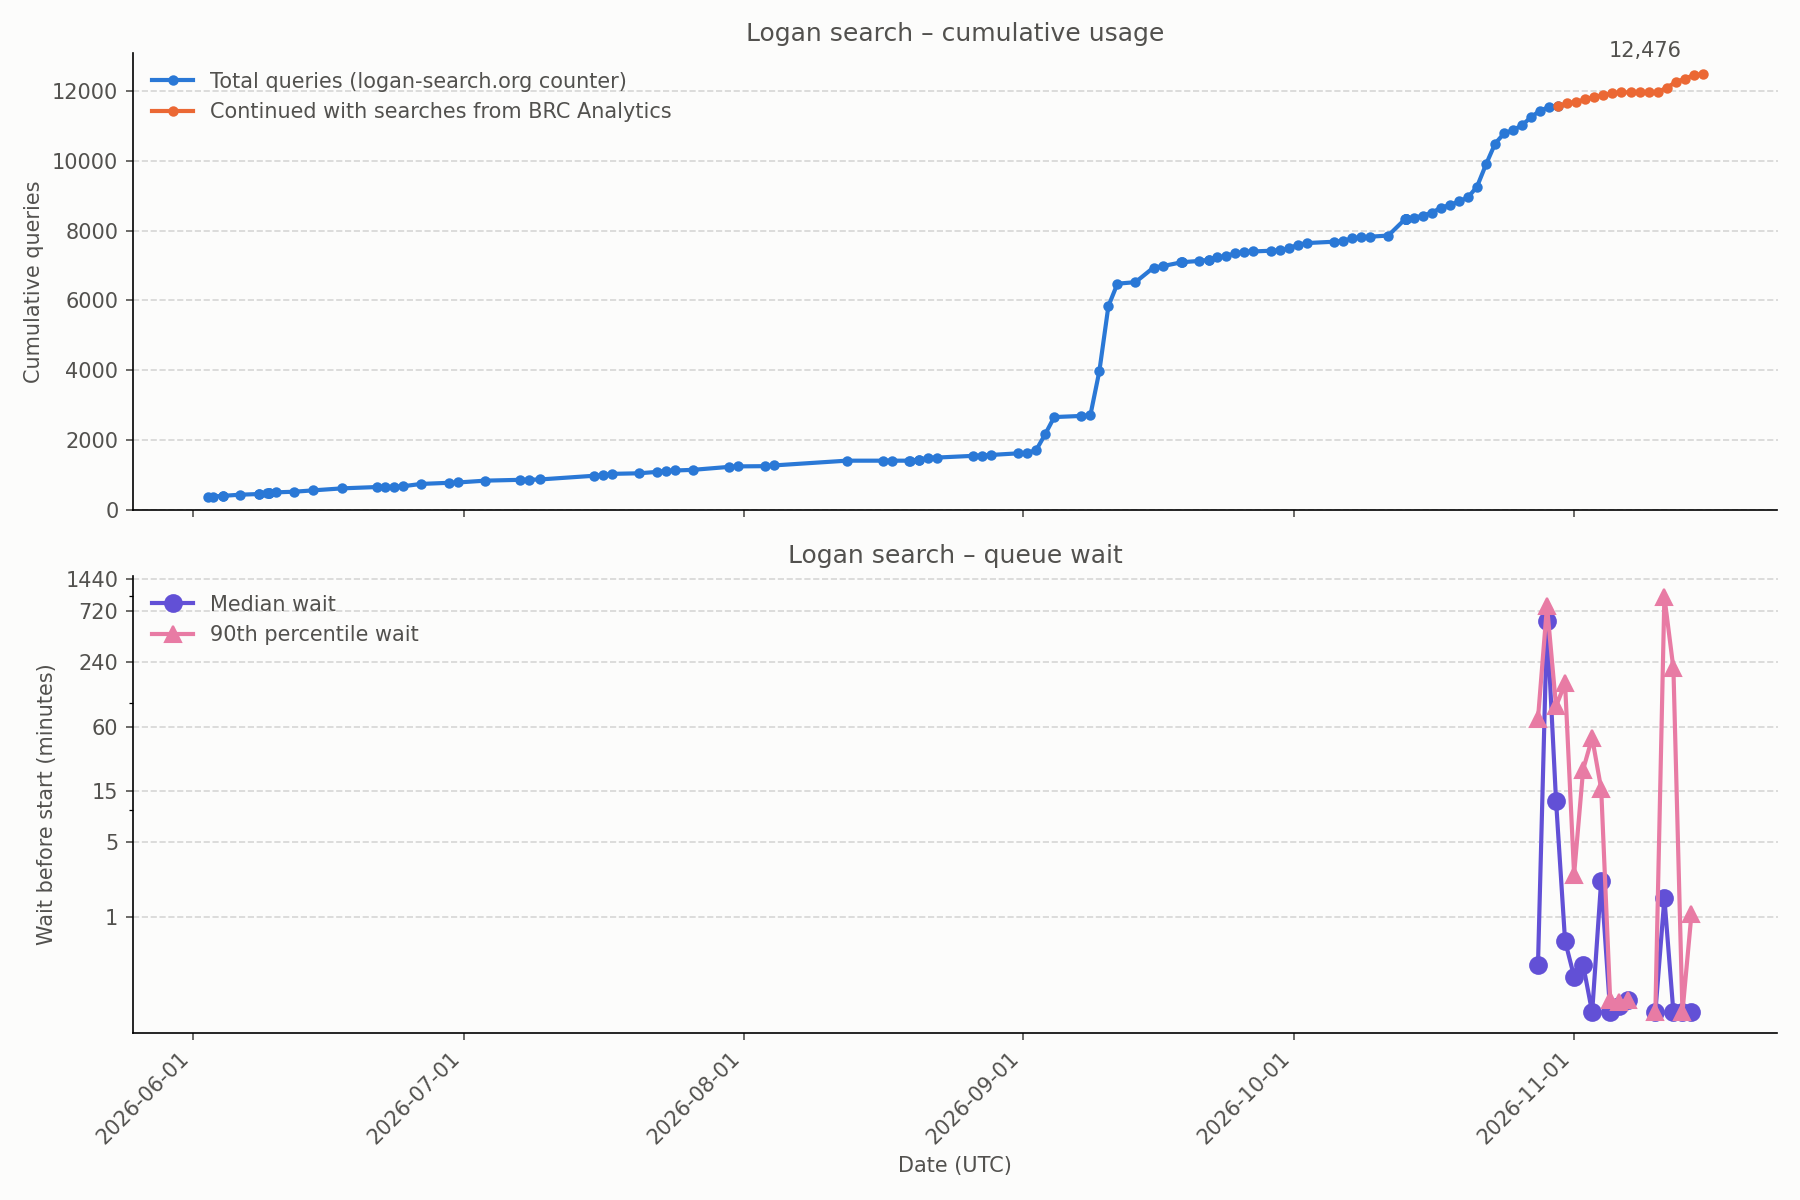
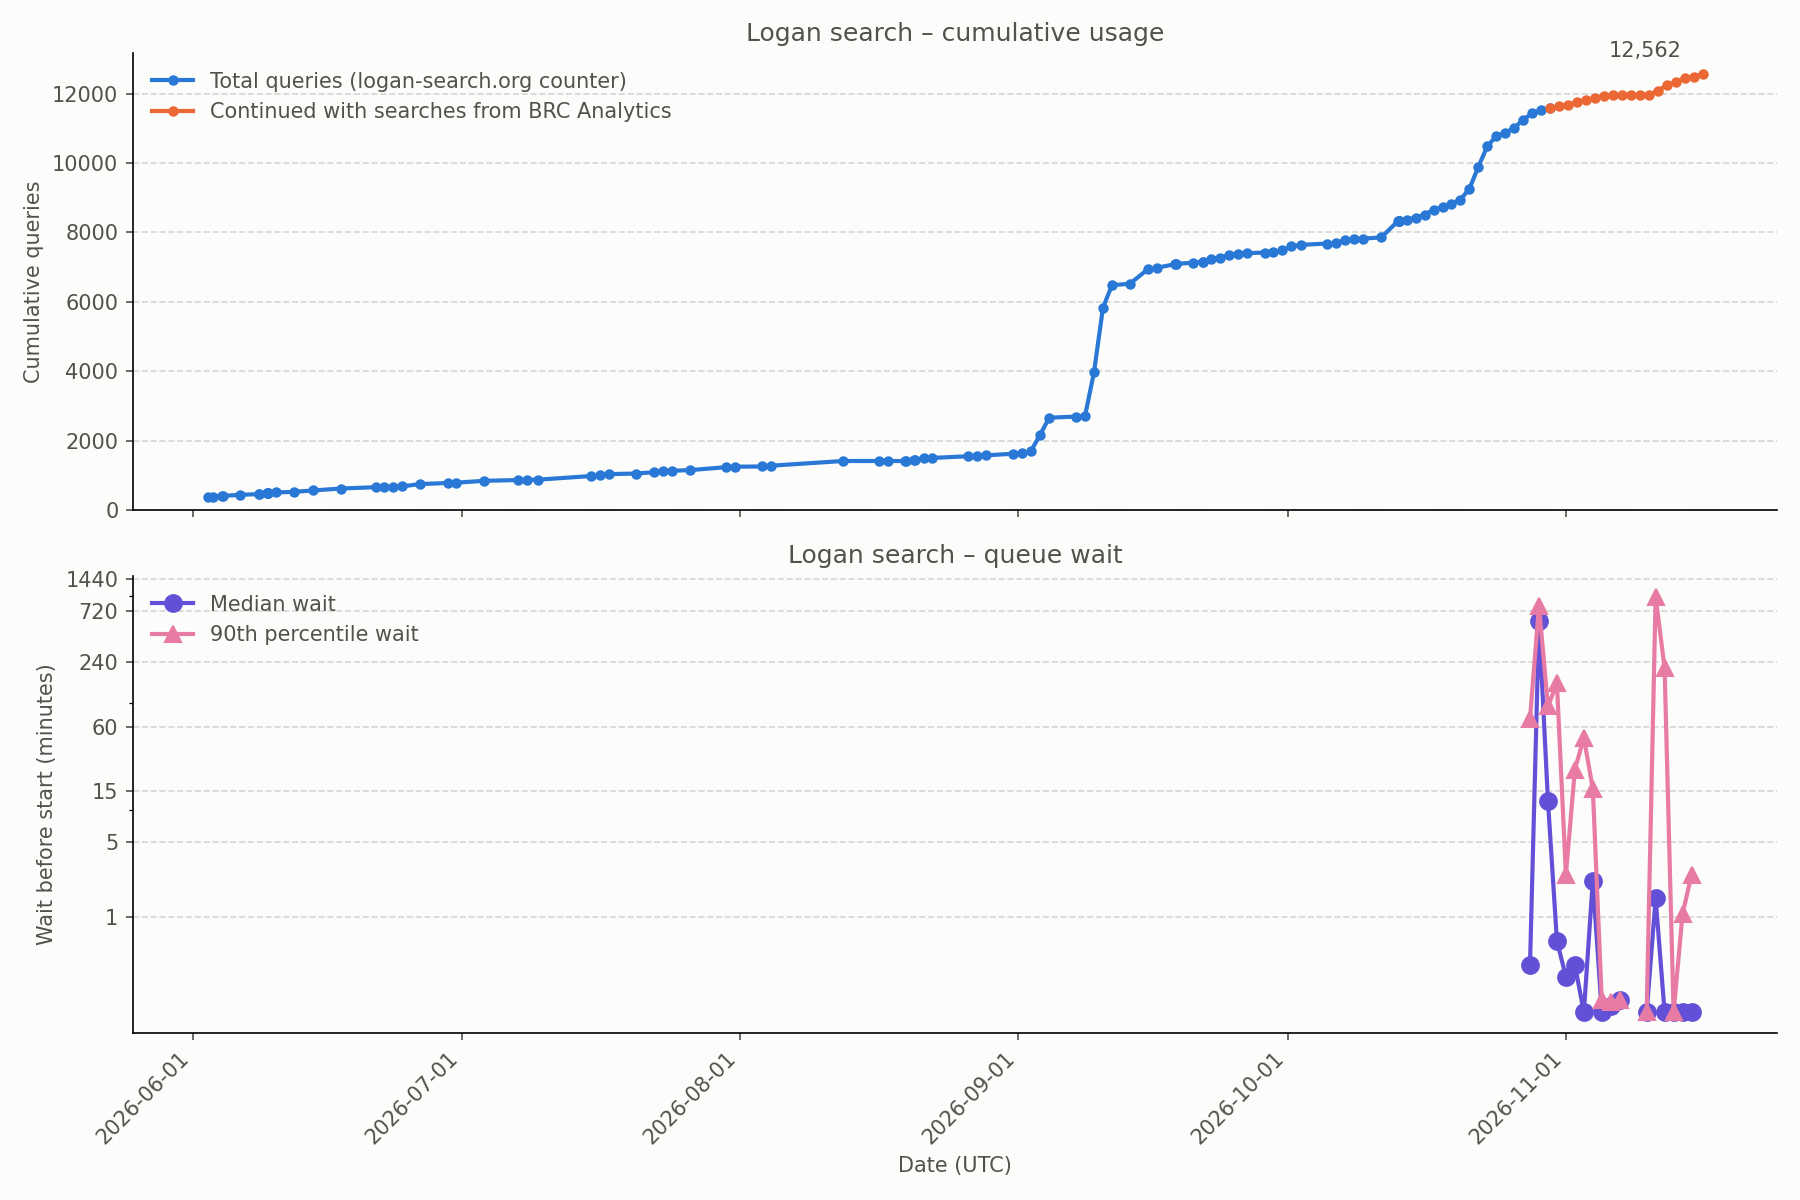
Update statistics 2026-11-16

diff --git a/README.md b/README.md
@@ -5,8 +5,8 @@ Usage statistics of [Logan Search](https://logan-search.org), updated once a day
 ## Yesterday
 
 <!-- daily-queries:start -->
-**Queries on 2026-11-14 (UTC): 32** on the backend (BRC Analytics history).
-The logan-search.org counter increased by 30 between 2026-11-14 06:00 and 2026-11-15 06:00 UTC.
+**Queries on 2026-11-15 (UTC): 81** on the backend (BRC Analytics history).
+The logan-search.org counter increased by 186 between 2026-11-15 06:00 and 2026-11-16 06:00 UTC.
 <!-- daily-queries:end -->
 
 ## Queries made on logan-search.org
